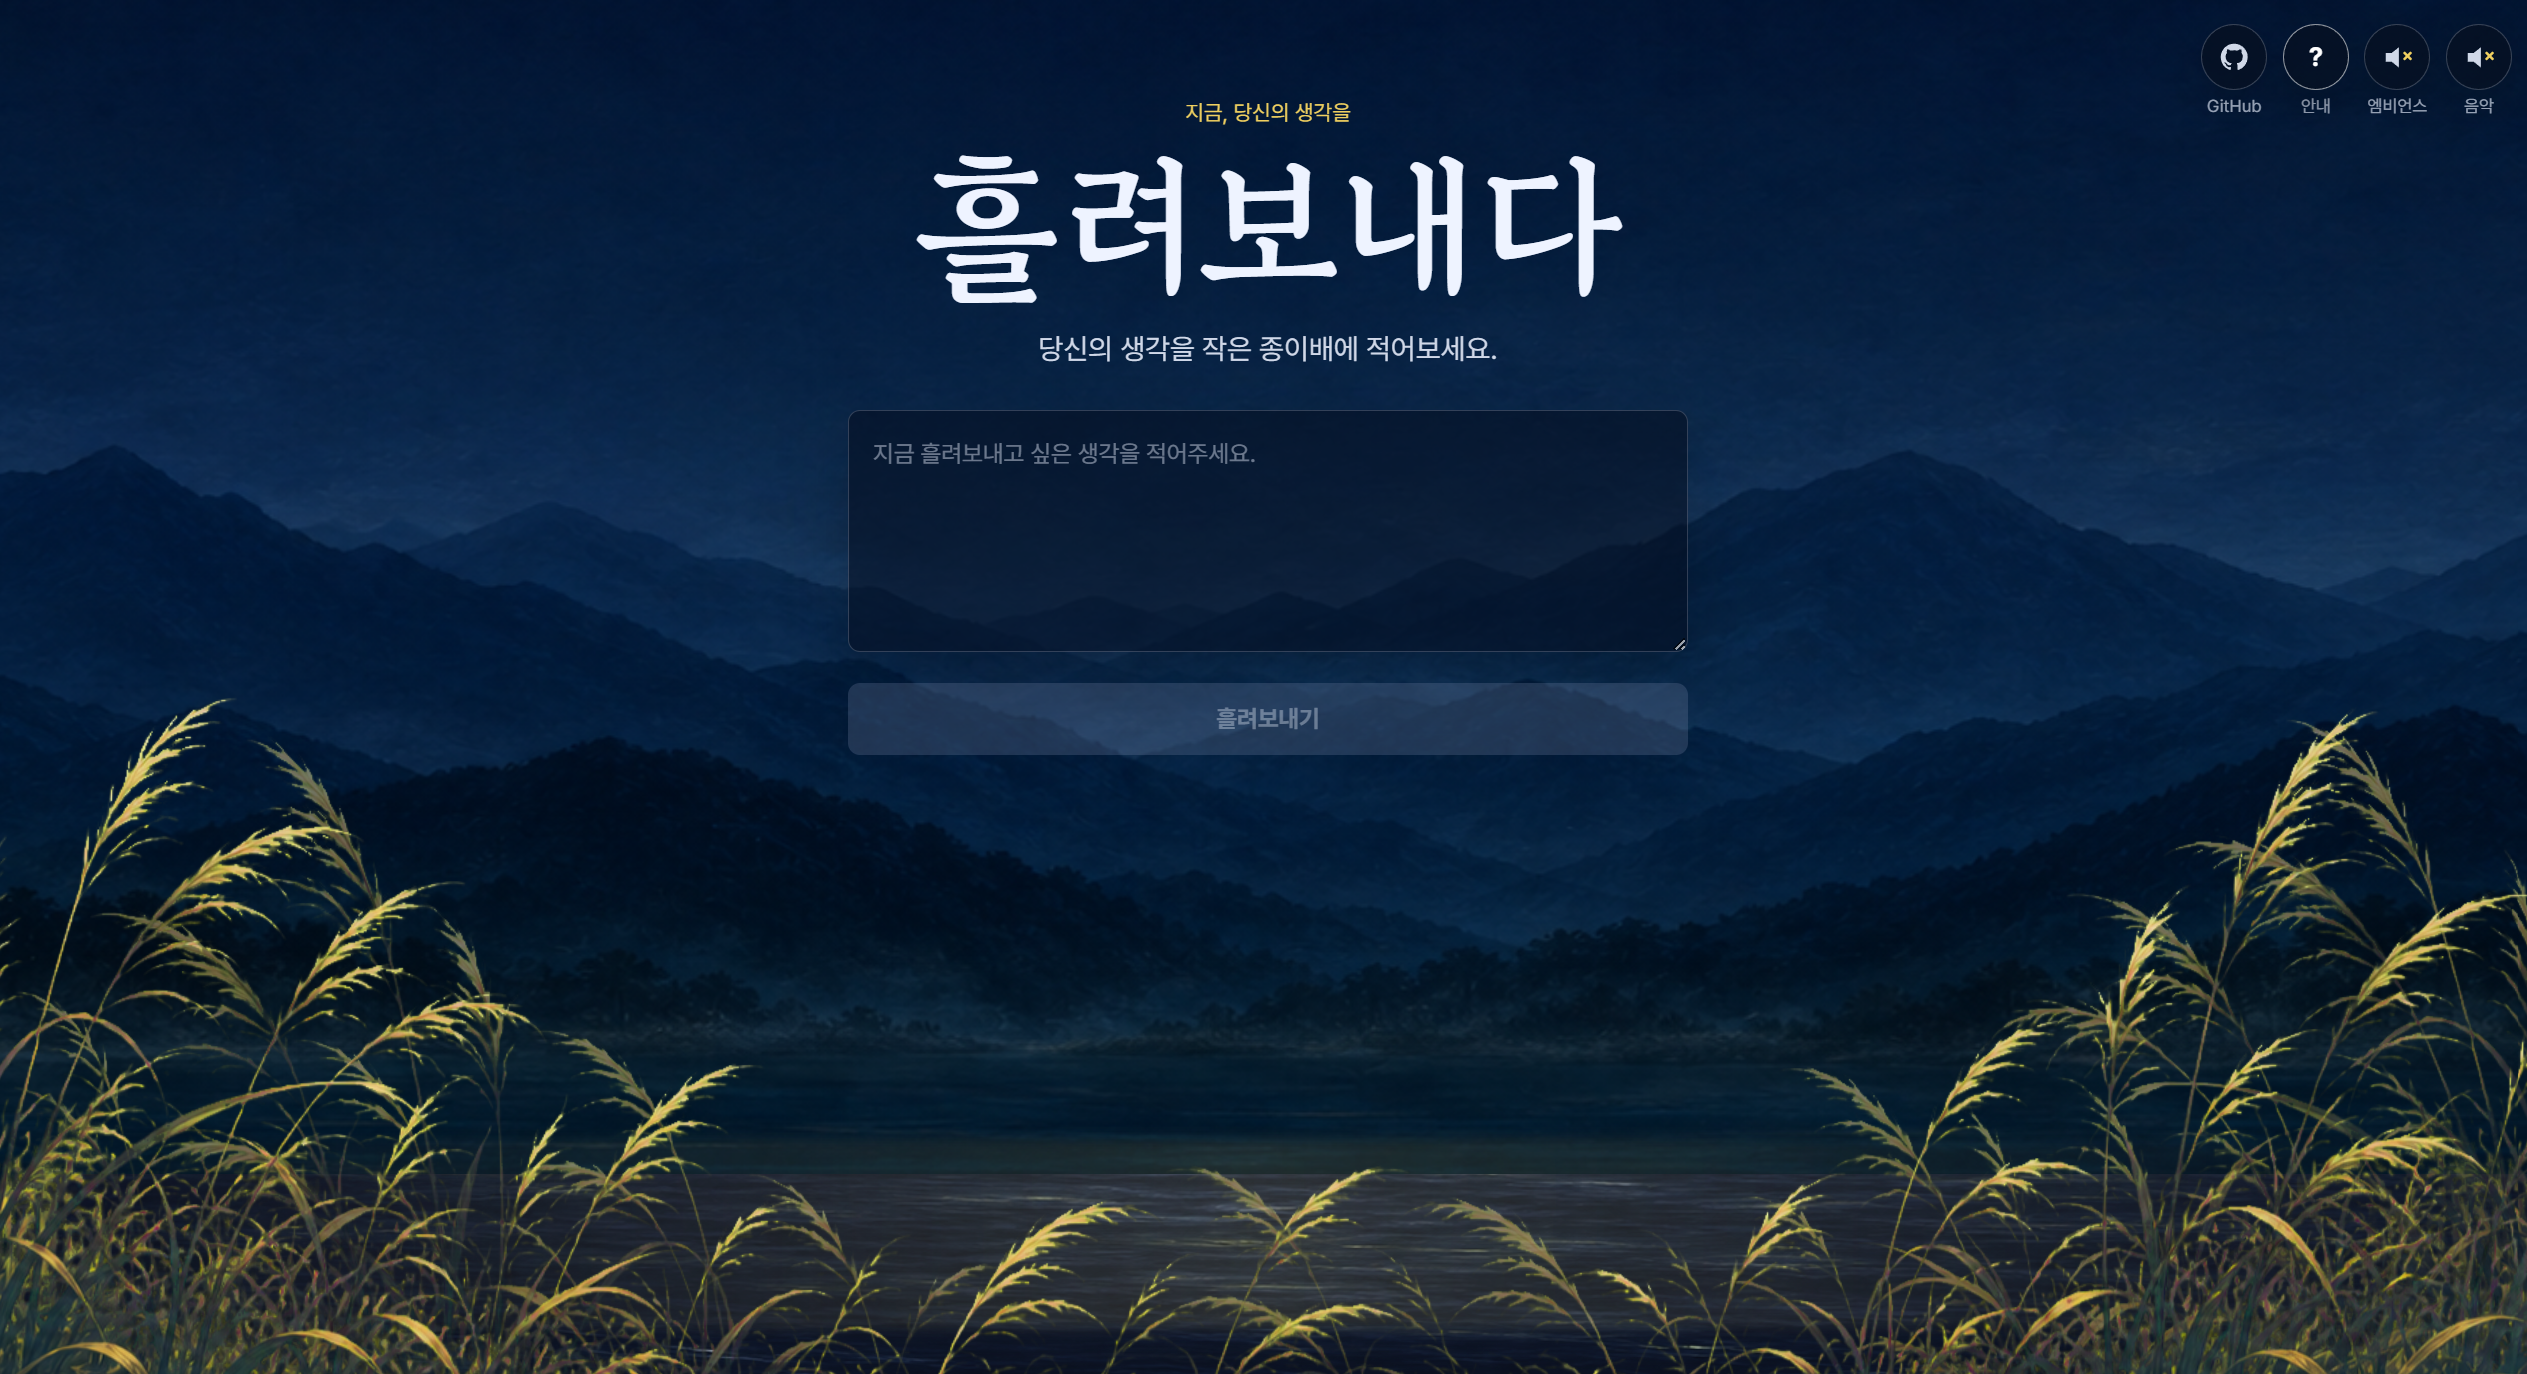
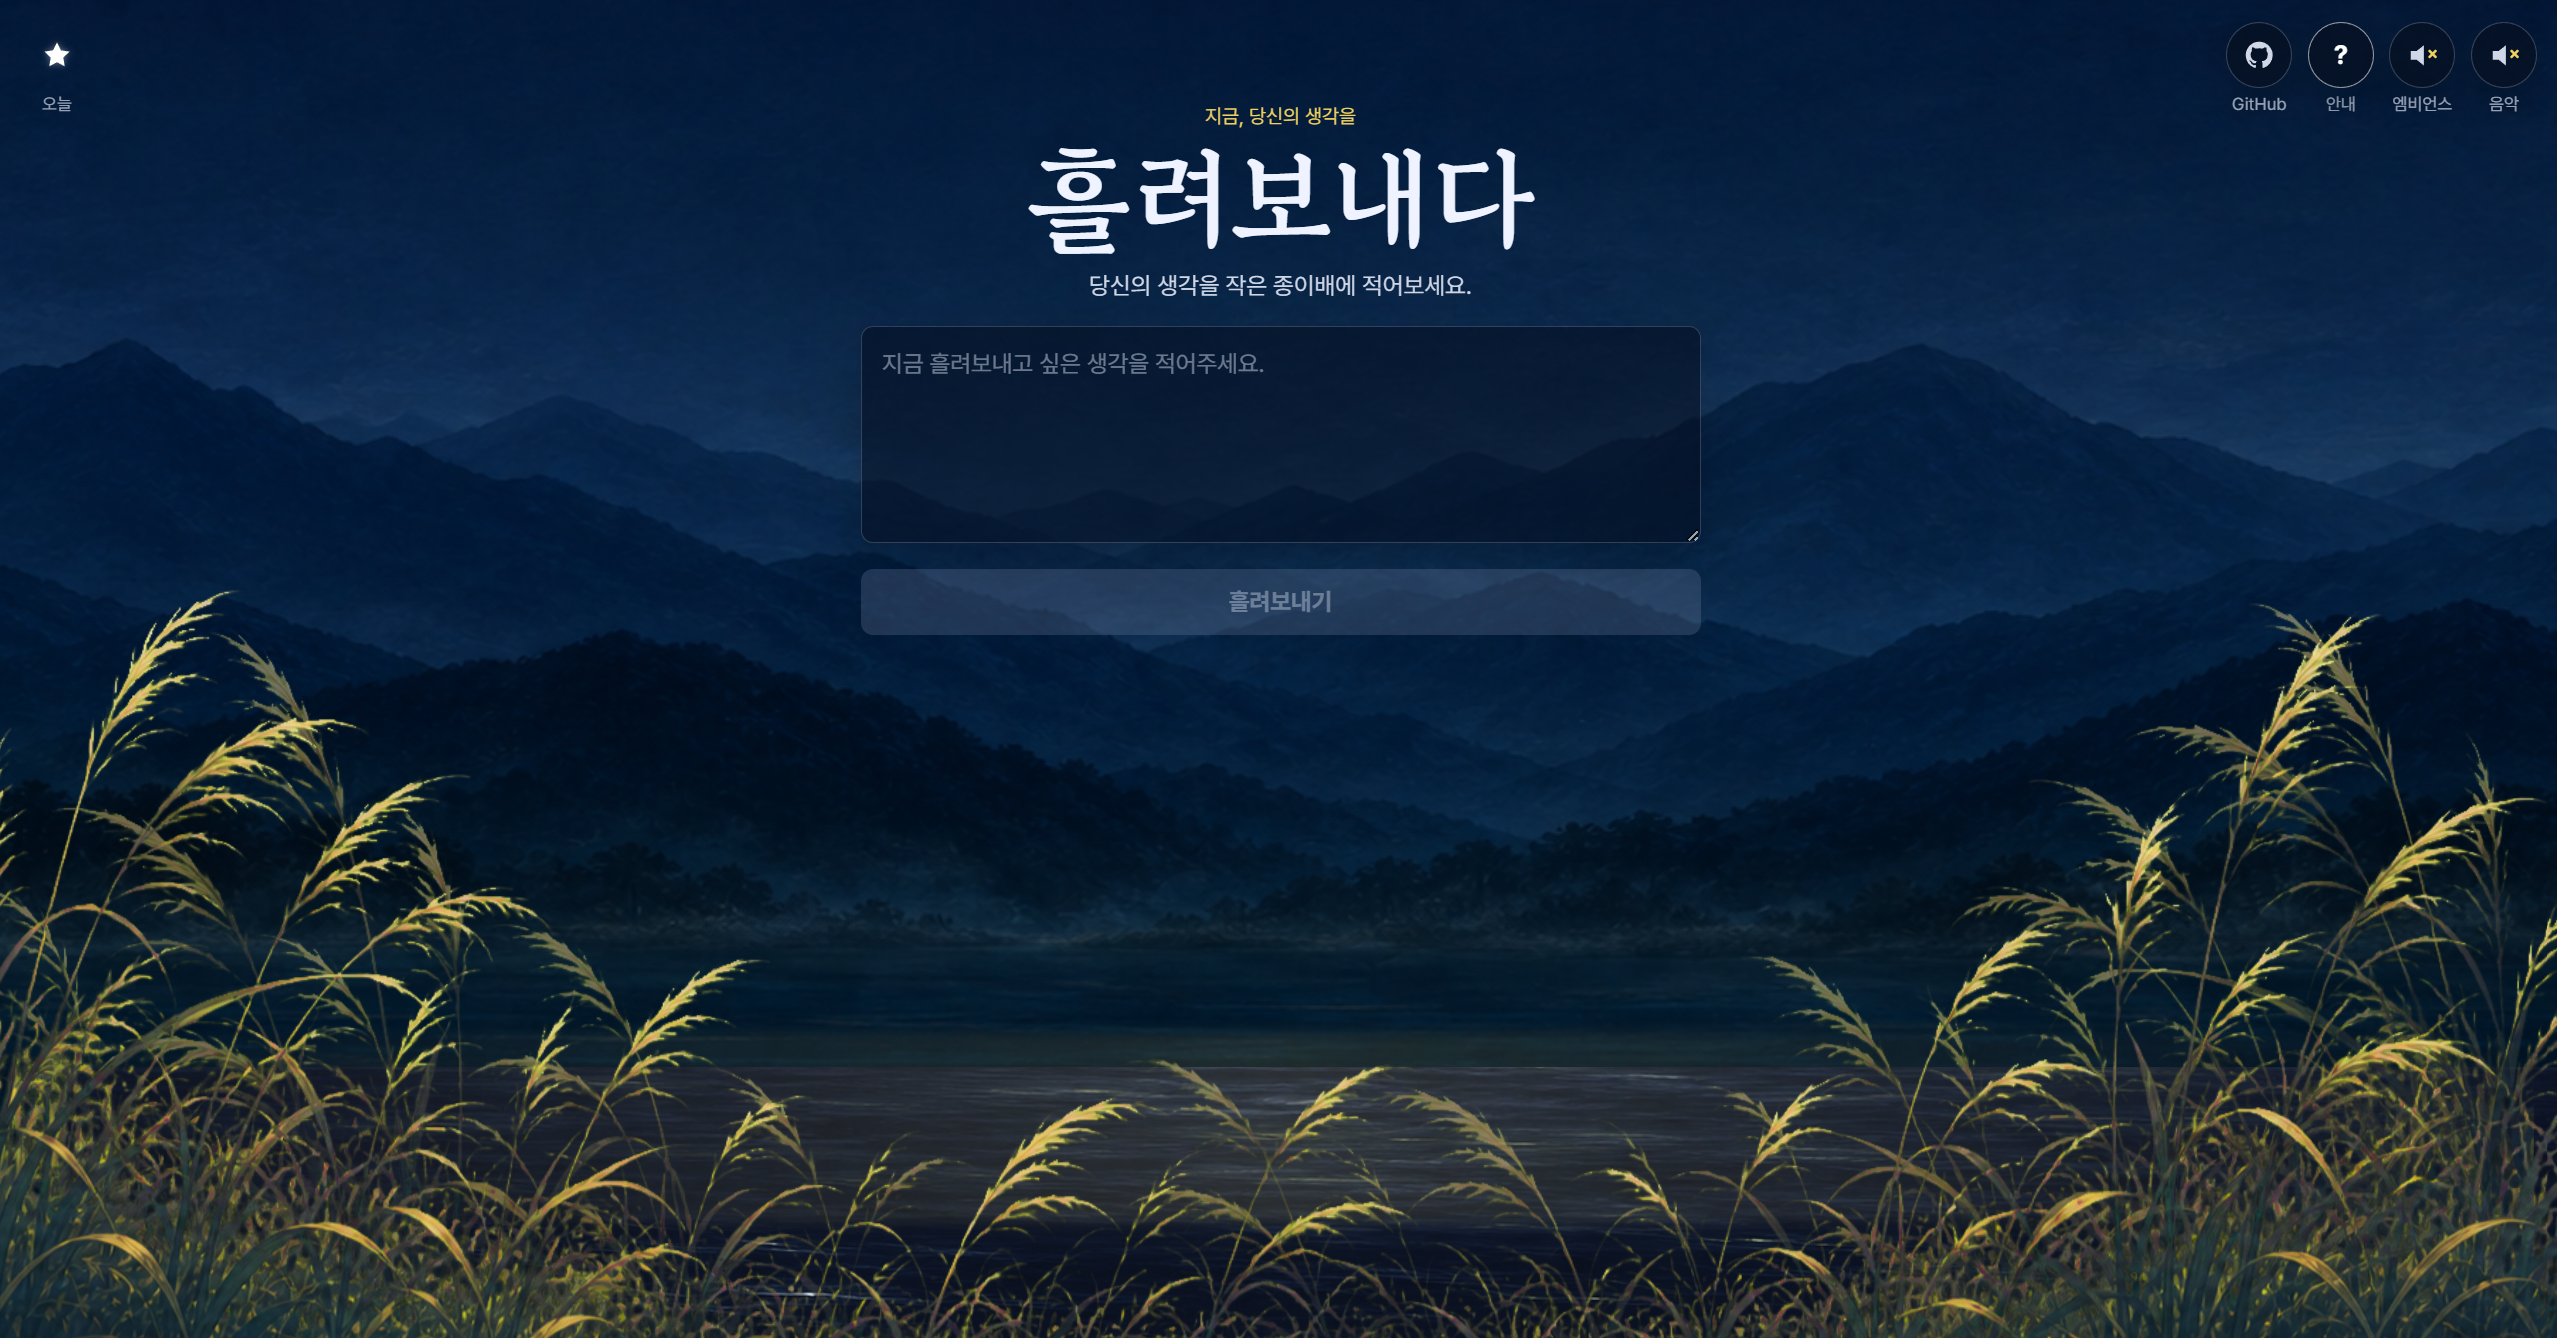
Present Flow Boat as an open-source project
Add a user-facing README with screenshots and update the in-app footer copy so the project reads as open source without claiming a specific license file.

Constraint: screenshots were refreshed locally and should be committed with the README references.

Rejected: naming a specific OSS license | this repository does not currently include a LICENSE file.

Confidence: high

Scope-risk: narrow

Tested: npm.cmd run build; docker compose -f docker-compose.yml -f docker-compose.build.yml build; docker compose -f docker-compose.yml -f docker-compose.build.yml -f docker-compose.local.yml up -d --force-recreate; HTTP 200 from http://localhost:8080

Not-tested: visual review after GitHub README rendering

diff --git a/front/src/components/RiverSection.jsx b/front/src/components/RiverSection.jsx
@@ -17,7 +17,7 @@ function RiverSection({ boats }) {
         <img className="reed-layer reed-layer-back" src={reedLayer} alt="" loading="lazy" />
         <img className="reed-layer reed-layer-front" src={reedLayer} alt="" loading="lazy" />
       </div>
-      <p className="river-copyright">Open source project by JBL28.</p>
+      <p className="river-copyright">Open source on GitHub · JBL28</p>
     </section>
   );
 }

diff --git a/README.md b/README.md
@@ -1,0 +1,151 @@
+# Flow Boat
+
+> 오늘 마음에 남은 생각을 작은 종이배에 적어, 밤의 강 위로 조용히 흘려보내는 웹 페이지입니다.
+
+![Flow Boat wide screen](docs/넓은%20화면.png)
+
+## 마음을 흘려보내는 작은 의식
+
+Flow Boat는 기록보다 놓아주기에 가까운 공간입니다.  
+걱정이나 생각을 입력하고 `흘려보내기`를 누르면, 문장은 종이배가 되어 강 위를 천천히 지나갑니다.
+
+서버는 메시지를 오래 붙잡지 않습니다.  
+지금 이 순간의 생각은 화면 위에서 잠시 머물다가, 물결과 함께 사라집니다.
+
+## 주요 기능
+
+### 종이배에 생각 담기
+
+텍스트 영역에 떠오르는 생각을 적고 버튼을 누르면 종이배가 생성됩니다.  
+같은 화면을 보고 있는 다른 사람에게도 WebSocket을 통해 배가 함께 흘러갑니다.
+
+### 오늘 지나간 배
+
+좌상단의 별 아이콘은 오늘 이 브라우저에서 흘려보낸 배의 개수를 보여줍니다.  
+하루가 바뀌면 새로운 카운트로 다시 시작합니다.
+
+### 소리와 분위기
+
+우상단의 사운드 버튼으로 강의 엠비언스와 음악을 각각 켜고 끌 수 있습니다.  
+화면은 한 뷰포트 안에 꽉 차도록 구성되어, 노트북과 모바일에서도 하단 여백 없이 하나의 장면처럼 보이도록 설계했습니다.
+
+### 모바일 화면
+
+![Flow Boat mobile screen](docs/모바일.png)
+
+## Open Source
+
+Flow Boat는 오픈소스 프로젝트입니다.  
+코드는 GitHub에서 확인할 수 있고, 화면 우상단의 GitHub 버튼을 통해 저장소로 이동할 수 있습니다.
+
+---
+
+## For Developers
+
+### Tech Stack
+
+- Frontend: React, Vite, Nginx
+- Backend: Node.js, `ws`
+- Runtime: Docker Compose
+- Realtime: WebSocket endpoint proxied through `/ws`
+
+### Repository Structure
+
+```text
+flow_boat/
+├─ back/                      # WebSocket server
+├─ front/                     # React/Vite frontend served by Nginx
+├─ docs/                      # README screenshots
+├─ docker-compose.yml         # image-based runtime services
+├─ docker-compose.build.yml   # local build overlay
+└─ docker-compose.local.yml   # local port overlay, 8080:80
+```
+
+### Run With Published Docker Images
+
+Use this when you want to run the already-pushed Docker Hub images.
+
+```bash
+docker compose -f docker-compose.yml -f docker-compose.local.yml pull
+docker compose -f docker-compose.yml -f docker-compose.local.yml up -d
+```
+
+Open:
+
+```text
+http://localhost:8080
+```
+
+Check status:
+
+```bash
+docker compose -f docker-compose.yml -f docker-compose.local.yml ps
+```
+
+Stop:
+
+```bash
+docker compose -f docker-compose.yml -f docker-compose.local.yml down
+```
+
+### Build And Run Locally
+
+Use this when you changed source code and want Docker to rebuild the frontend/backend images locally.
+
+```bash
+docker compose -f docker-compose.yml -f docker-compose.build.yml build
+docker compose -f docker-compose.yml -f docker-compose.build.yml -f docker-compose.local.yml up -d --force-recreate
+```
+
+### Frontend-Only Build Check
+
+```bash
+cd front
+npm ci
+npm run build
+```
+
+### Environment Variables
+
+Copy `.env.example` to `.env` when you need custom image names or runtime settings.
+
+```bash
+cp .env.example .env
+```
+
+Common values:
+
+- `DOCKER_IMAGE_BACKEND`: backend image name used by Compose
+- `DOCKER_IMAGE_FRONTEND`: frontend image name used by Compose
+- `ALLOWED_ORIGINS`: comma-separated WebSocket origin allowlist
+- `VITE_WS_URL`: optional build-time WebSocket URL override
+
+By default, the frontend derives the WebSocket URL from the current page origin and connects through `/ws`. Nginx proxies `/ws` to the backend container on port `3001`.
+
+### Server Notes
+
+The included `docker-compose.local.yml` exposes the frontend as `8080:80`.  
+For a production server, create or edit a small override file to expose the frontend on the port your reverse proxy expects.
+
+Example for direct port 80:
+
+```yaml
+services:
+  frontend:
+    ports:
+      - "80:80"
+```
+
+Then run:
+
+```bash
+docker compose -f docker-compose.yml -f your-server-override.yml up -d
+```
+
+### Docker Images
+
+Current default images in `docker-compose.yml`:
+
+- `roodev0208/flow-frontend:latest`
+- `roodev0208/flow-backend:latest`
+